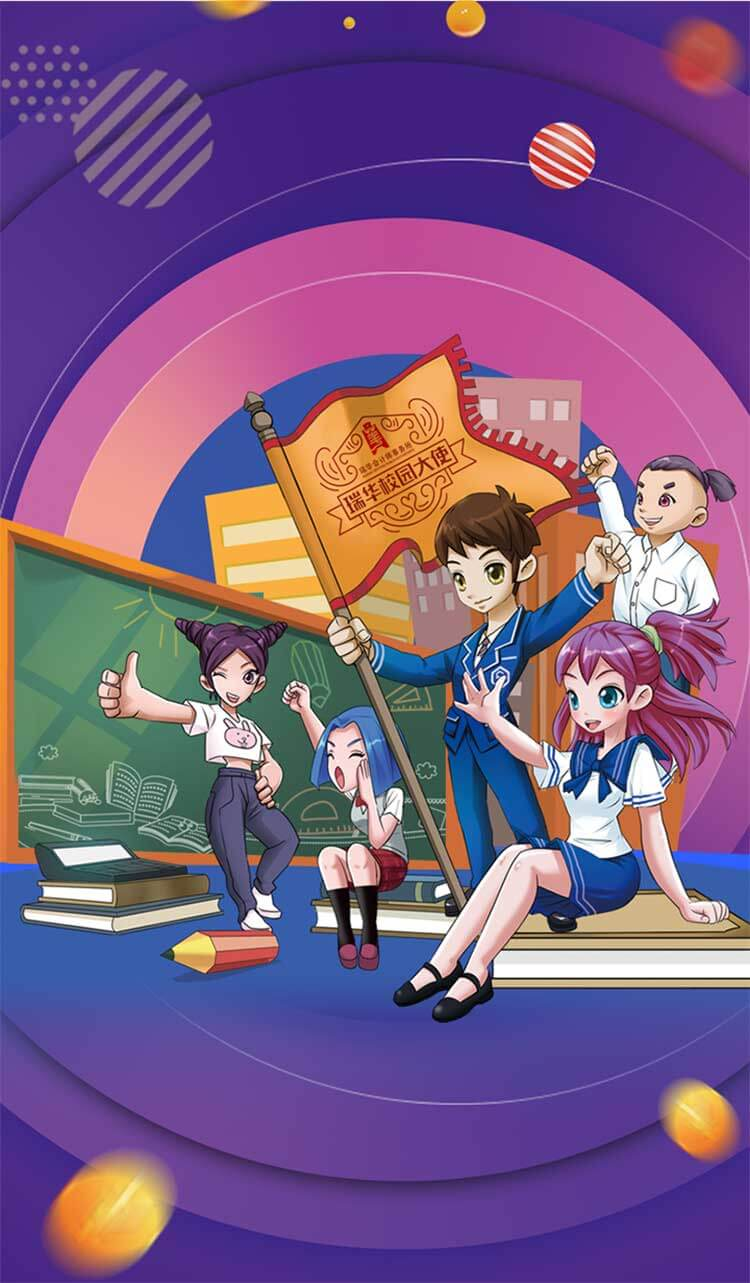
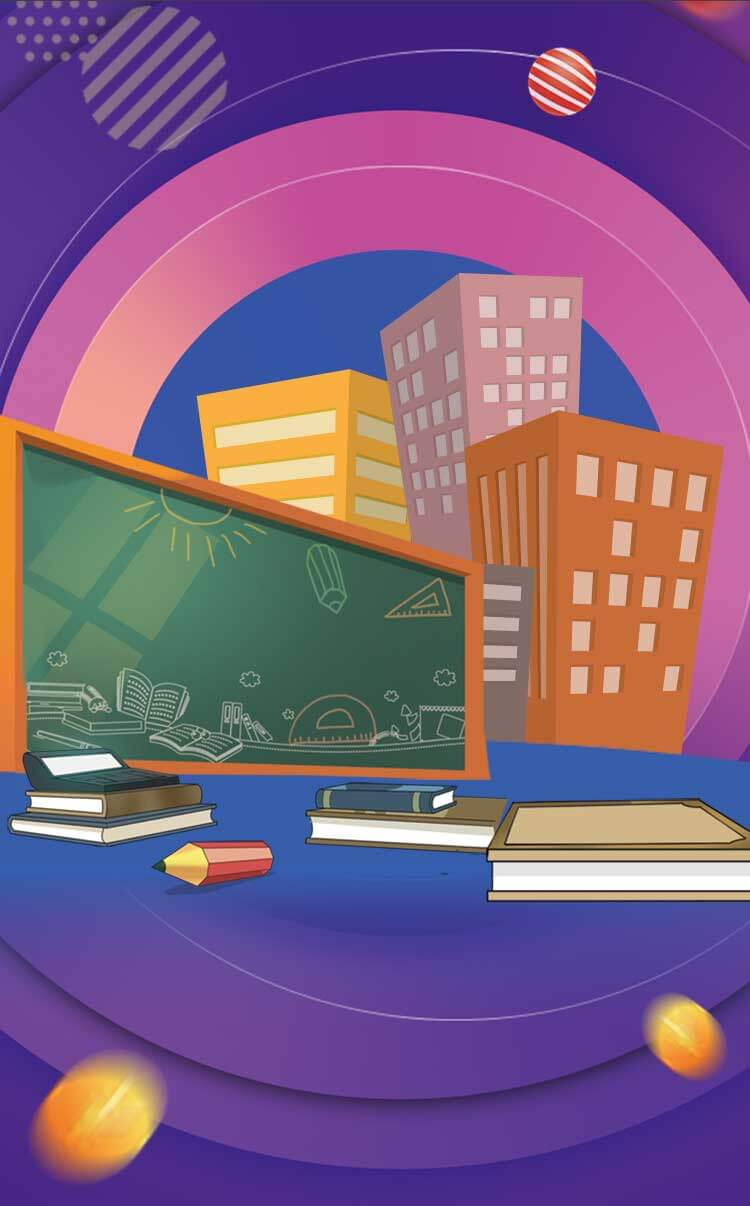
MODIFIES

diff --git a/ruihua/Public/js/app.js b/ruihua/Public/js/app.js
@@ -100,7 +100,9 @@ $(function(){
                 this.motionObj["page"+(i+1)] = new TimelineMax();
             }
 
-            this.motionObj['page' + 1].add(TweenMax.from('.page1_1', .5, { delay: .2, alpha: 0.5, y: -120, ease: Bounce.easeOut}));
+            this.motionObj['page' + 1].add(TweenMax.from('.page1_1', .5, { delay: .2, alpha: 0, y: -120, ease: Bounce.easeOut}));
+            this.motionObj['page' + 1].add(TweenMax.from('.page1_3', .5, {alpha: 0, x: 80, ease: Linear.easeInOut}));
+            this.motionObj['page' + 1].add(TweenMax.from('.page1_4', .5, { alpha: 0, y: 100, ease: Linear.easeOut}));
             this.motionObj['page'+1].pause();
 
             this.motionObj['page' + 2].add([
@@ -133,10 +135,8 @@ $(function(){
             this.motionObj['actpage' + 2].add(TweenMax.from('.actpage2_4', .5, {alpha: 0, y: -50, x: 200, ease: Bounce.easeOut }));
             this.motionObj['actpage' + 2].pause();
 
-            this.motionObj['actpage' + 3].add([
-                TweenMax.from('.actpage3_1', .5, { delay: .2, alpha: 0, y: 50, x: -200, ease: Bounce.easeOut}),
-                TweenMax.from('.actpage3_2', .5, { delay: .2, alpha: 0, y: -50, x: 200, ease: Bounce.easeOut })
-            ]);
+            this.motionObj['actpage' + 3].add(TweenMax.from('.actpage3_1', .6, { delay: .2, alpha: 0, y: 50, x: -200, ease: Bounce.easeOut }));
+            this.motionObj['actpage' + 3].add(TweenMax.from('.actpage3_2', .6, {alpha: 0, y: -50, x: 200, ease: Bounce.easeOut }));
             this.motionObj['actpage' + 3].add(TweenMax.from('.actpage3_3', .5, { alpha: 0, y: -50, x: 200, ease: Bounce.easeOut }));
             this.motionObj['actpage' + 3].pause();
 

diff --git a/ruihua/Public/css/main.css b/ruihua/Public/css/main.css
@@ -120,17 +120,39 @@ html,body {
 .page .page1{
 	background-image: url("../images/p1.jpg");
 	background-position: center center;
-	background-size: cover;
+    background-size: cover;
+    background-color: #402181;
 }
 .page1>div{ position: absolute; left: 50%;}
 
 .page1_1{
-	top: 90px;
-	margin: 0 0 0 -316px;
+    top: 90px;
+    width: 665px;
+    height: 132px;
+    margin: 0 0 0 -332px;
+    background: url(../images/p1_1.png) no-repeat 50% 50%;
 }
 .page1_2{
-	bottom: 80px;
-	margin: 0 0 0 -193px;
+    top: 50%;
+    width: 750px;
+    height: 1028px;
+    margin: -720px 0 0 -630px;
+    background: url(../images/p1_2.gif) no-repeat 50% 50%;
+    background-size: 100% auto;
+}
+.page1_3{
+    top: 50%;
+    width: 658px;
+    height: 708px;
+    margin: -356px 0 0 -290px;
+    background: url(../images/p1_3.png) no-repeat 50% 50%;
+}
+.page1_4{
+    top: 50%;
+    width: 711px;
+    height: 171px;
+    margin: 258px 0 0 -360px;
+    background: url(../images/p1_4.png) no-repeat 50% 50%;
 }
 
 /**
@@ -211,9 +233,13 @@ html,body {
 }
 .page3_bg{
     position: absolute;
-    top: 0;
-	left: 0;
-	width: 100%;
+    top: 50%;
+	left: 50%;
+    width: 750px;
+    height: 1333px;
+    margin: -730px 0 0 -375px;
+    background: url(../images/p3_4.gif) no-repeat 50% 50%;
+	background-size: cover;
 }
 .page3_1{
 	position: absolute;

diff --git a/ruihua/Index/index.html b/ruihua/Index/index.html
@@ -22,9 +22,12 @@
     <div class="swiper-container main hide" id="main">
         <div class="swiper-wrapper page">
             <div class="swiper-slide page1">
-                <div class="page1_1"><img src="../Public/images/p1_1.png"></div>
-                <!-- <div class="page1_2"><img src="../Public/images/p1_2.gif"></div> -->
-                <div class="page1_logo logo_bottom"></div>
+                <div class="page1_1"></div>
+                <div class="page1_2"></div>
+                <div class="page1_3"></div>
+                <div class="page1_4"></div>
+                <div class="page1_2"></div>
+                <div class="logo_bottom"></div>
             </div>
             <div class="swiper-slide page2">
                 <div class="page2_bg1"><img src="../Public/images/p2_bg1.png"></div>
@@ -40,7 +43,7 @@
                 <div class="page2_5 itm breath"></div>
             </div>
             <div class="swiper-slide page3">
-                <!-- <div class="page3_bg"><img src="../Public/images/p3_4.gif"></div> -->
+                <div class="page3_bg"></div>
                 <div class="page3_1"></div>
                 <div class="page3_2"></div>
                 <div class="page3_3"></div>
